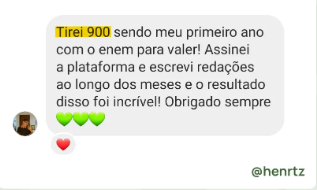
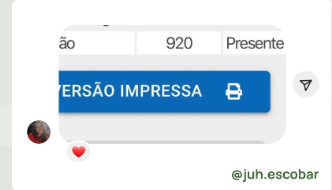
Expande depoimentos para 4 prints reais (adiciona TITI3)

diff --git a/index.html b/index.html
@@ -175,10 +175,11 @@
       <h2 style="font-family:'Manrope',sans-serif;font-size:36px;font-weight:800;margin:0 0 16px;letter-spacing:-0.02em;">Você pode ser o próximo</h2>
       <p style="font-size:17px;color:#4A5568;line-height:1.6;">Alunos que destravaram a redação nota 1000 e a prova de Humanas com o material.</p>
     </div>
-    <div class="grid-3" style="display:grid;grid-template-columns:repeat(3,1fr);gap:20px;">
+    <div class="grid-4" style="display:grid;grid-template-columns:repeat(4,1fr);gap:20px;">
       <img src="dep-1.png" alt="Depoimento de aluno" style="width:100%;border-radius:14px;box-shadow:0 1px 2px rgba(13,27,42,0.04),0 12px 32px rgba(13,27,42,0.06);">
-      <img src="dep-2.png" alt="Depoimento de aluno" style="width:100%;border-radius:14px;box-shadow:0 1px 2px rgba(13,27,42,0.04),0 12px 32px rgba(13,27,42,0.06);">
+      <img src="dep-2.webp" alt="Depoimento de aluno" style="width:100%;border-radius:14px;box-shadow:0 1px 2px rgba(13,27,42,0.04),0 12px 32px rgba(13,27,42,0.06);">
       <img src="dep-3.png" alt="Depoimento de aluno" style="width:100%;border-radius:14px;box-shadow:0 1px 2px rgba(13,27,42,0.04),0 12px 32px rgba(13,27,42,0.06);">
+      <img src="dep-4.png" alt="Depoimento de aluno" style="width:100%;border-radius:14px;box-shadow:0 1px 2px rgba(13,27,42,0.04),0 12px 32px rgba(13,27,42,0.06);">
     </div>
   </section>
 
